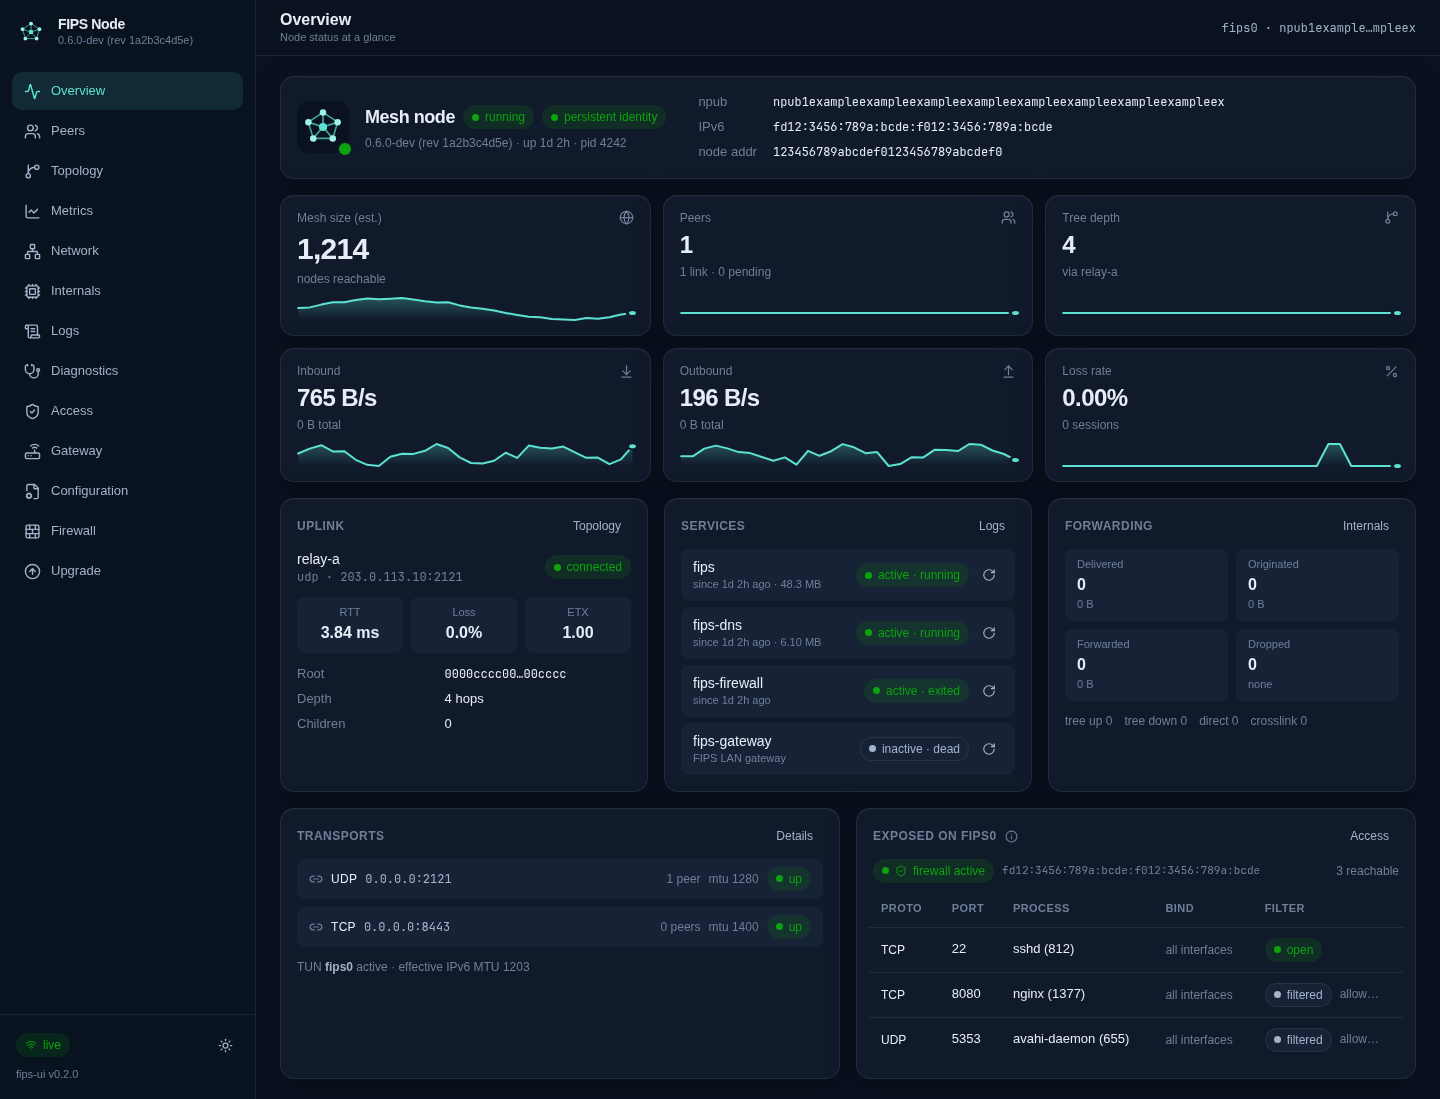
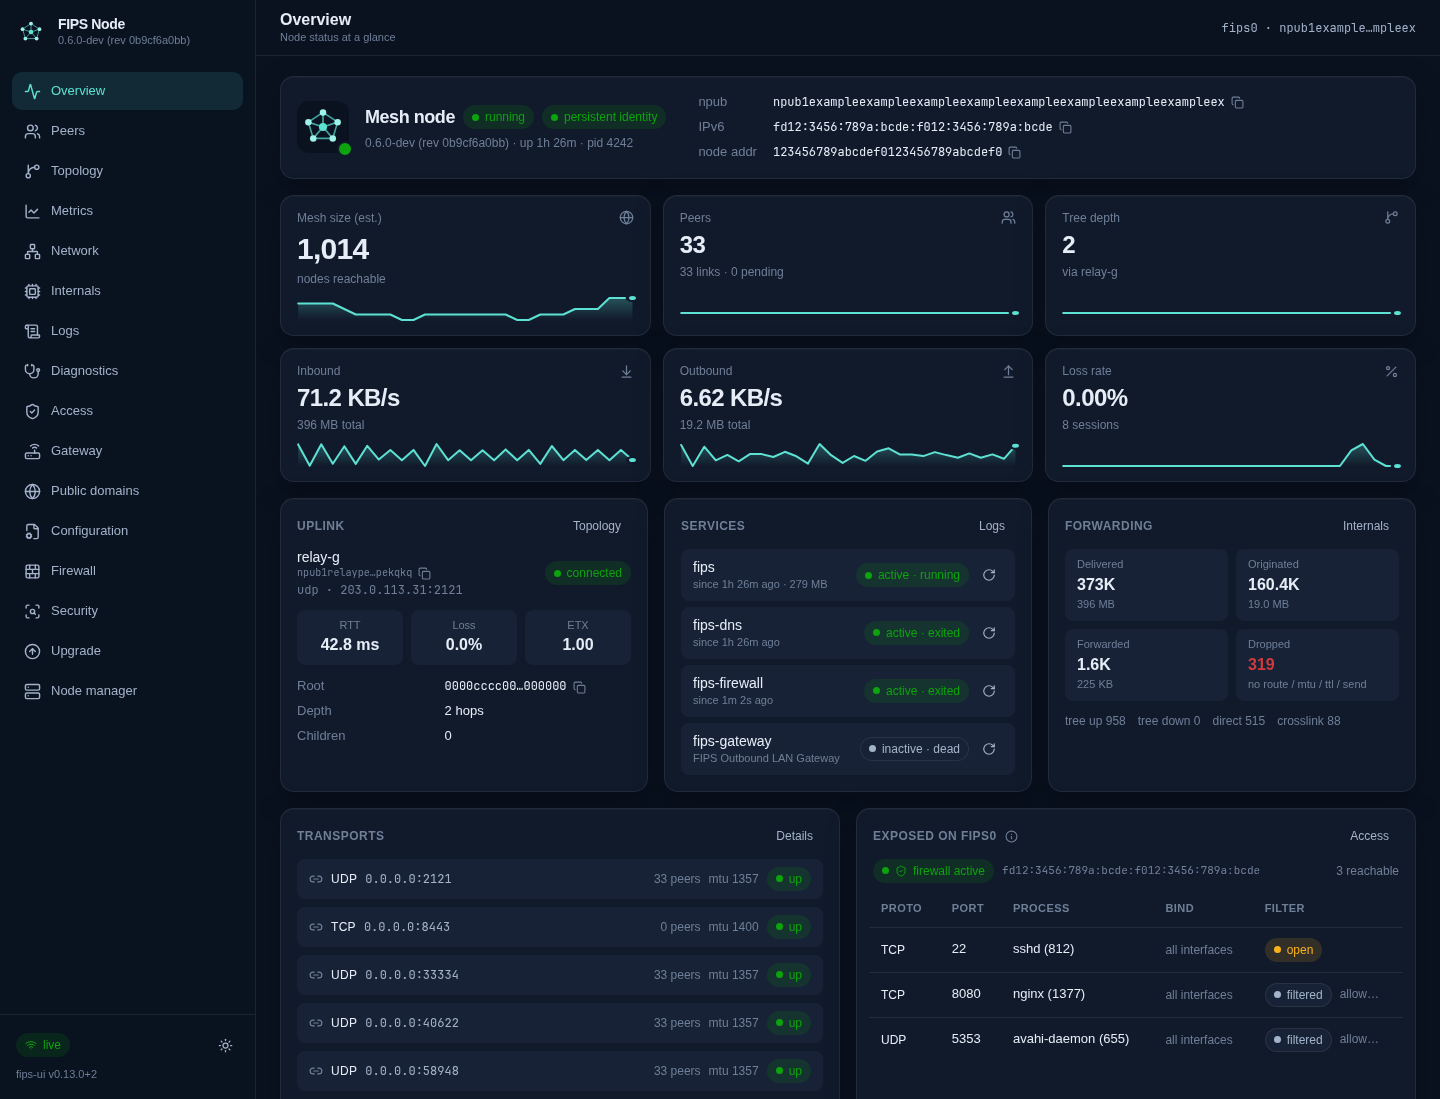
README: Security page screenshot, overview with the new menu item
Taken against a scratch instance whose control socket rewrites every
identifier to placeholders, with a made-up scan report.

diff --git a/README.md b/README.md
@@ -35,6 +35,8 @@ NixOS module), FreeBSD, pfSense, macOS and Windows.
 
 Dark and light themes, responsive down to phone width, no external fonts or CDNs.
 
+![security](docs/screenshots/security.png)
+
 ## Requirements
 
 - Node.js 22.18+, 23.6+ or 24+ (the backend is TypeScript run directly by Node's unflagged type stripping; no build step for the server)
